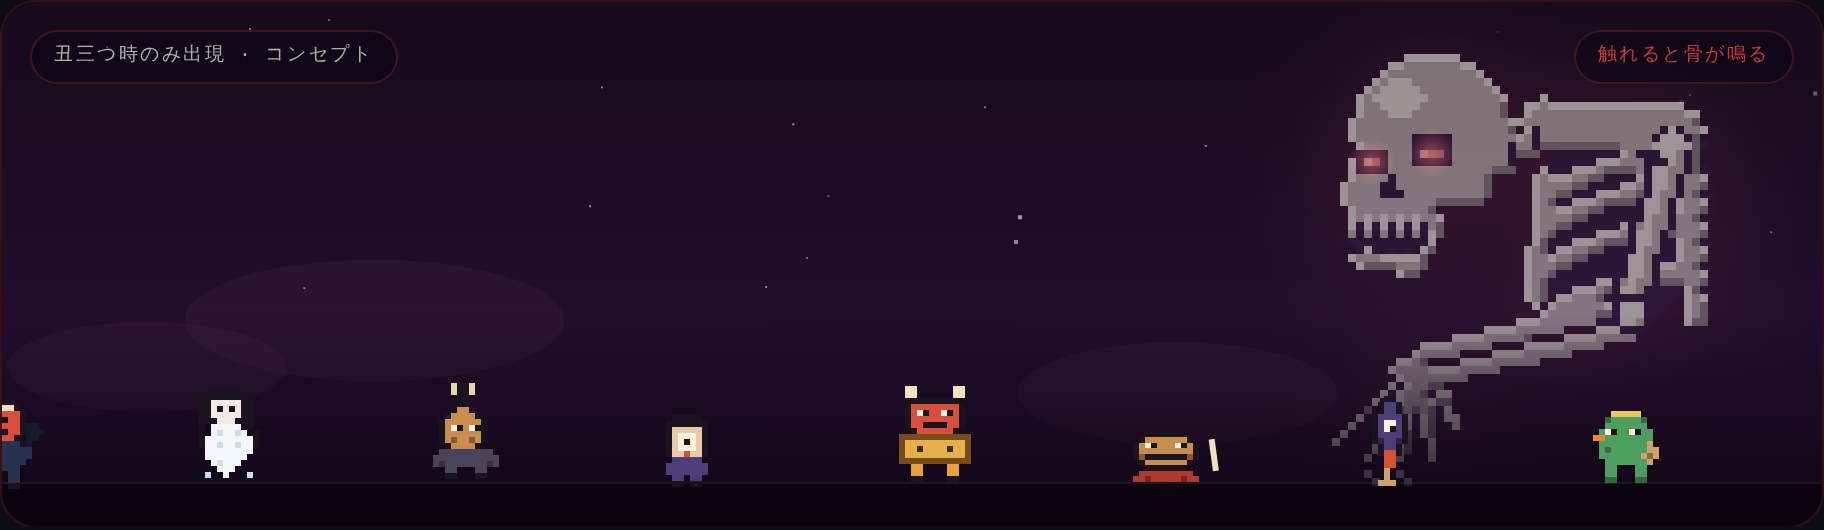
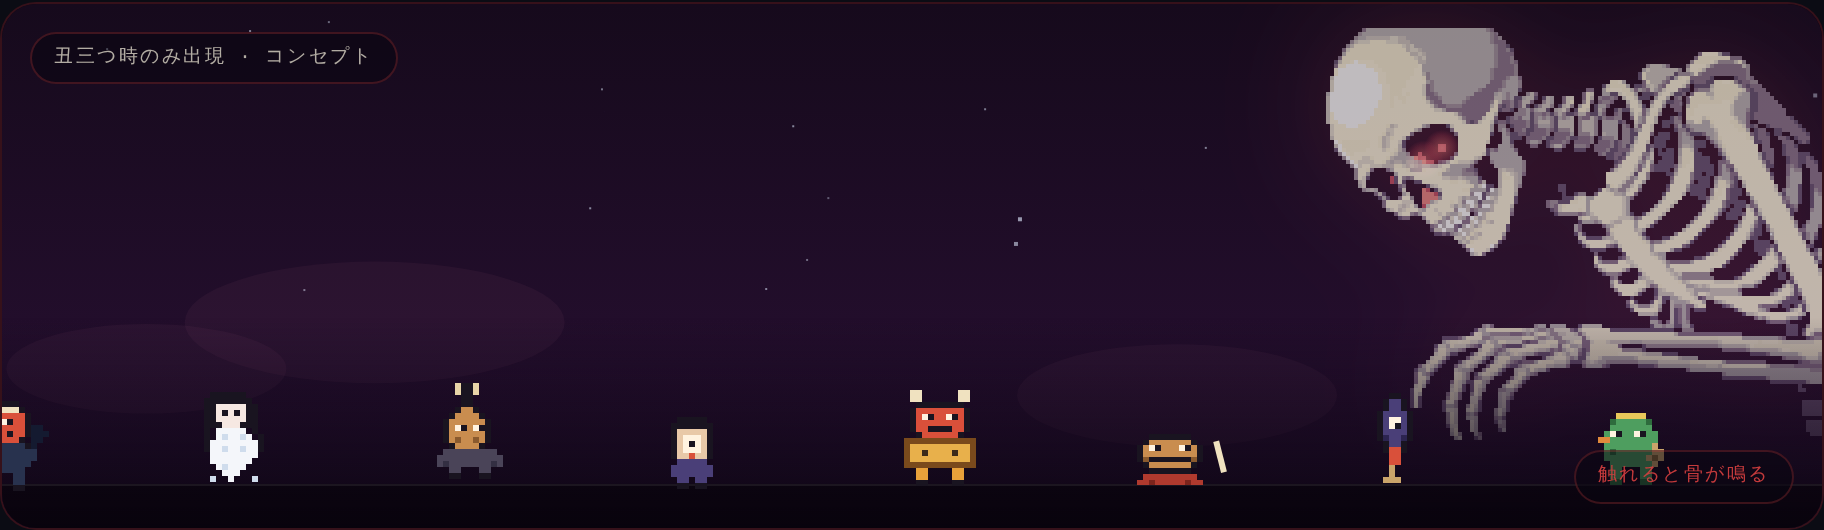
がしゃどくろをSNES級解像度(125×105ドット・限定11色)へ引き上げ
作者フィードバック「8-bitではなくピクセル数がSNES相当のドット絵を
求めていた」を受けて方針転換。気に入られたリファレンス画像を
面積平均ダウンサンプル+k-means限定パレット量子化でスプライト化し、
idle/rattle 2フレーム(顎・指骨・肋骨のみ震える)を再生成。

- 行列の8bit体はそのまま、がしゃどくろだけを高解像度化 —
  「一体あたりの深度に投資する」(§4.1)を解像度の格差で表現
- 眼のグロー検出を連結成分ベースに変更(鼻腔の紅は光らせない)
- docs/design/gashadokuro-proposal.png を差し替え、寸法表記を更新

Claude-Session: https://claude.ai/code/session_01XmW1hQAkqzn7LwpEptVzag

diff --git a/docs/DESIGN_NAV.md b/docs/DESIGN_NAV.md
@@ -76,7 +76,7 @@
 
 名の由来は骨が鳴る「がしゃがしゃ」という音 — 強いパーカッションの連打に骨が震える、翻訳帳的な必然がある新規キャラクター案。ただし §4.1 は頭数ではなく一体あたりの深度に投資する方針であり、§6 は妖怪の頭数を増やすこと自体を目的にしないと定めている。したがって**行列には加えない**。丑三つ時にだけ、夜空の奥にただ一体 — 月光に沈む頭蓋、眼窩の紅、肋骨の檻、行列の上へ差しかかる指骨 — が気配として佇む。行列の仲間ではなく、丑三つ時という時刻そのものの一部として。
 
-ドット絵は歌川国芳「相馬の古内裏」の骸骨を下敷きに、行列の8体(13〜15ドット)とは別格の大判(52×58ドット)で起こした2フレーム構成。idle と rattle(下顎・前腕・指骨・肋骨だけを1ドット震わせ、頭蓋は動かさない)を持ち、連打の合図で切り替わる。インタラクティブ版ではパネルに触れると骨が鳴る。
+ドット絵は歌川国芳「相馬の古内裏」の骸骨を下敷きに、行列の8bit体(13〜15ドット)とは**別格の、スーパーファミコン級の解像度(125×105ドット・限定11色)**で起こした2フレーム構成。「一体あたりの深度に投資する」(§4.1)という方針を、行列との解像度の格差そのもので語る。idle と rattle(下顎・指骨・肋骨だけを1ドット震わせ、頭蓋は動かさない)を持ち、連打の合図で切り替わる。インタラクティブ版ではパネルに触れると骨が鳴る。
 
 ![gashadokuro](design/gashadokuro-proposal.png)
 
@@ -90,5 +90,6 @@
 
 ## 更新履歴
 
+- 2026-07-10: がしゃどくろをスーパーファミコン級の解像度(125×105ドット・限定11色)へ引き上げ。8bitの行列との解像度差そのもので「別格の気配」を表現する方針に転換。
 - 2026-07-09: がしゃどくろを「骸骨と読める」大判2フレームスプライトに刷新(国芳構図・複数案から審査選定)。インタラクティブ版に行列の振付(2フレーム歩行・hit・squash・flare・バチ・白いひらめき・提灯の非対称スムージング)を実装の式のまま移植し、翻訳帳の各行に妖怪グリフを追加。画像を全て再書き出し。
 - 2026-07-08: 初版。PRODUCT_DIRECTION.md v3 をもとに構築したデザインイメージ(Claude Design)から画像を書き出し。人魂・がしゃどくろの新規提案を追加。
